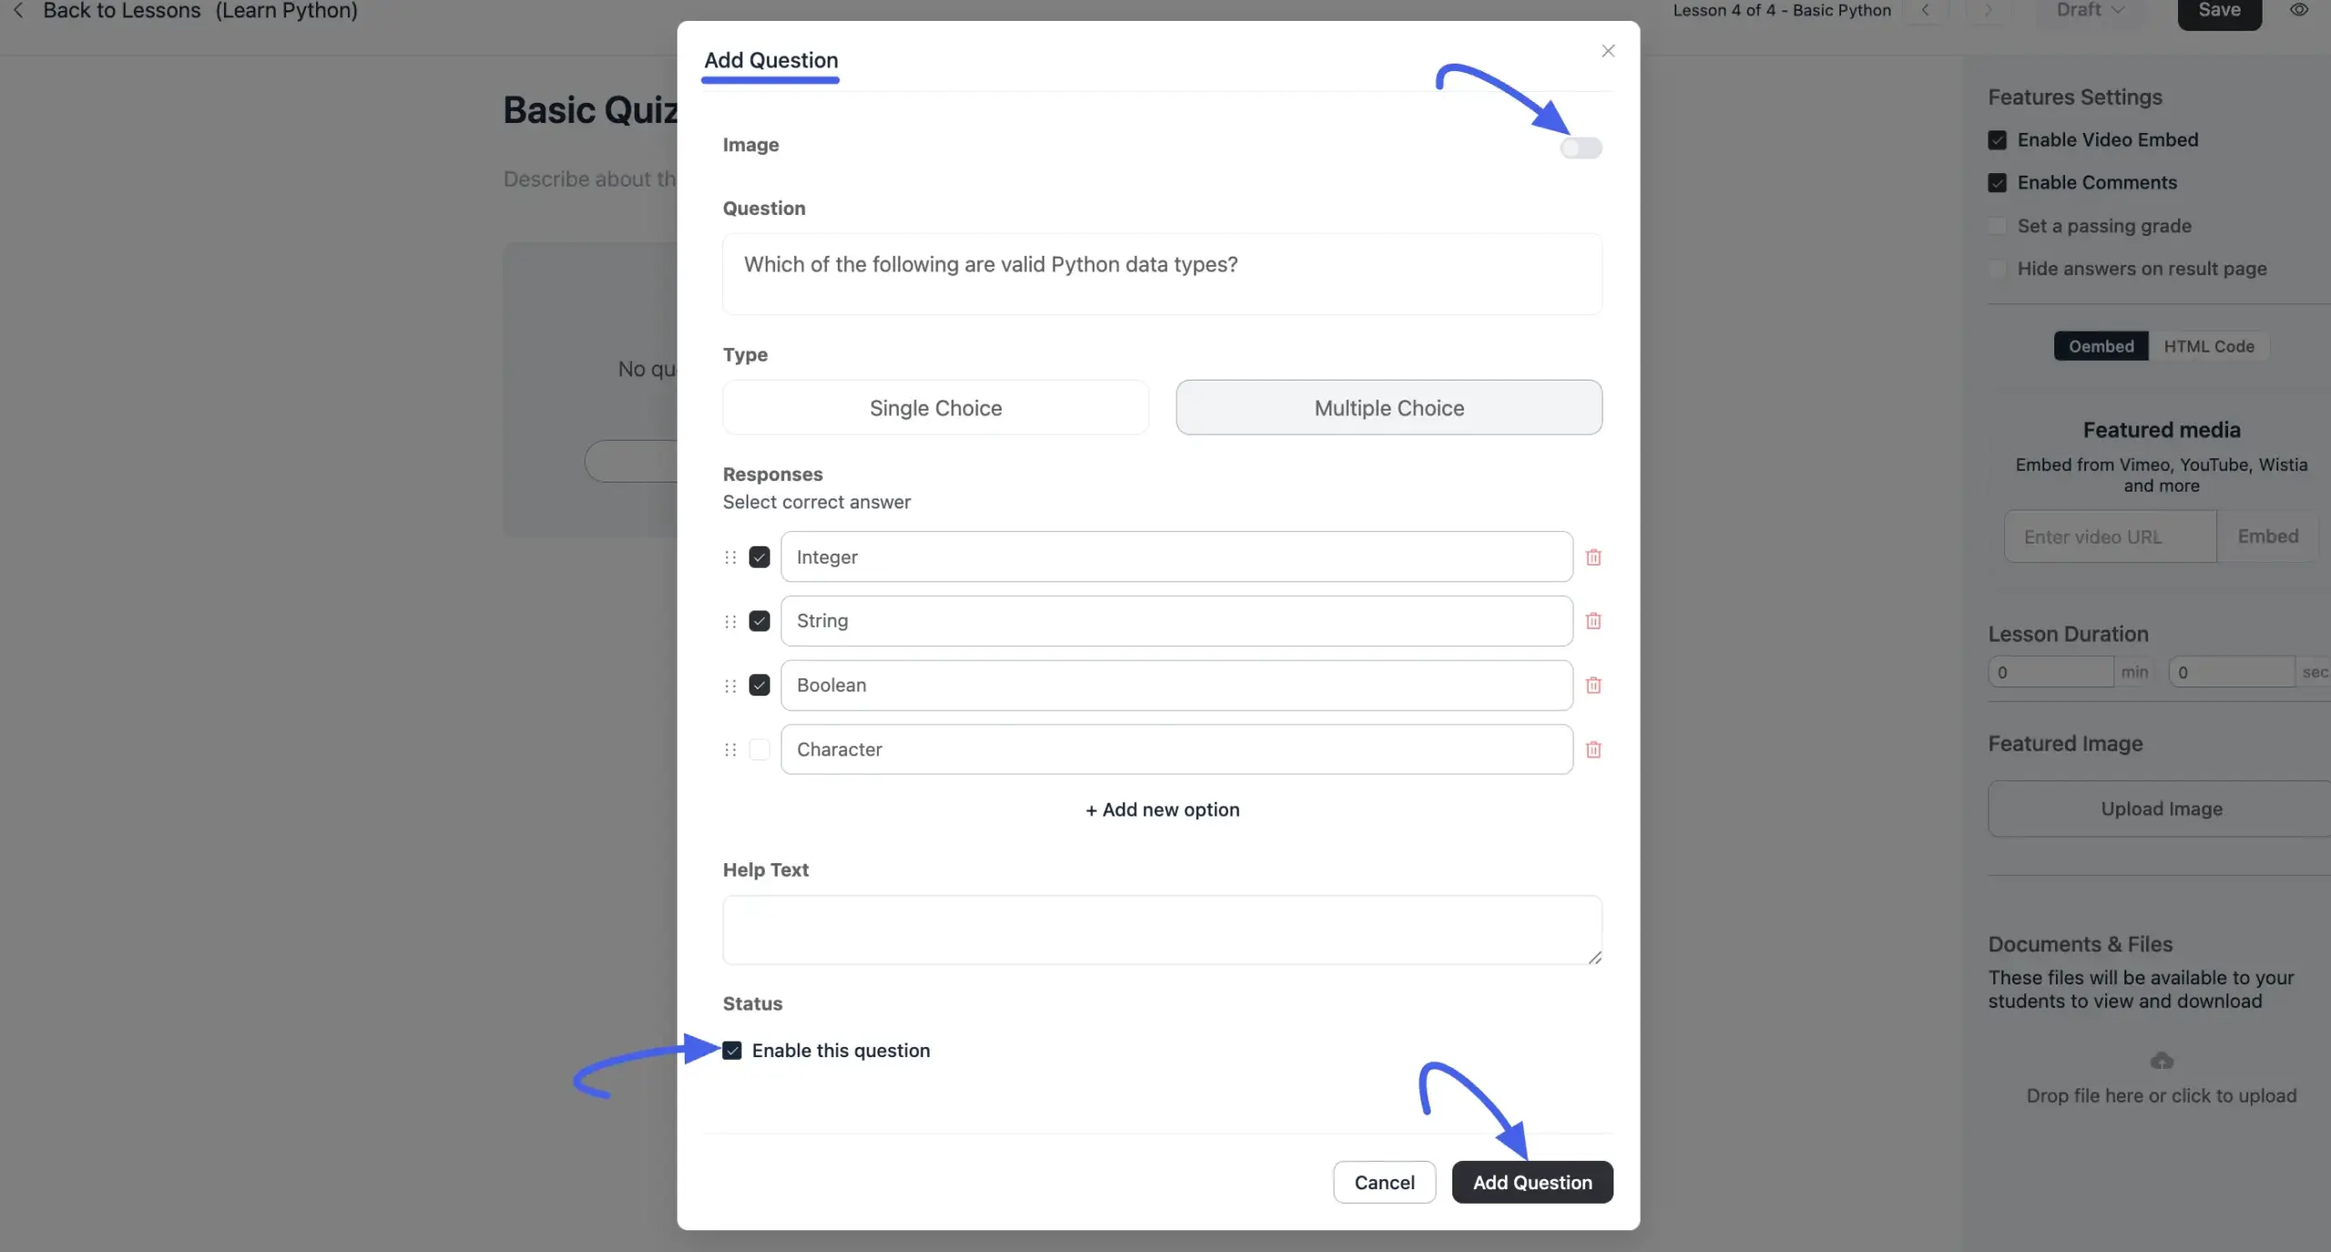
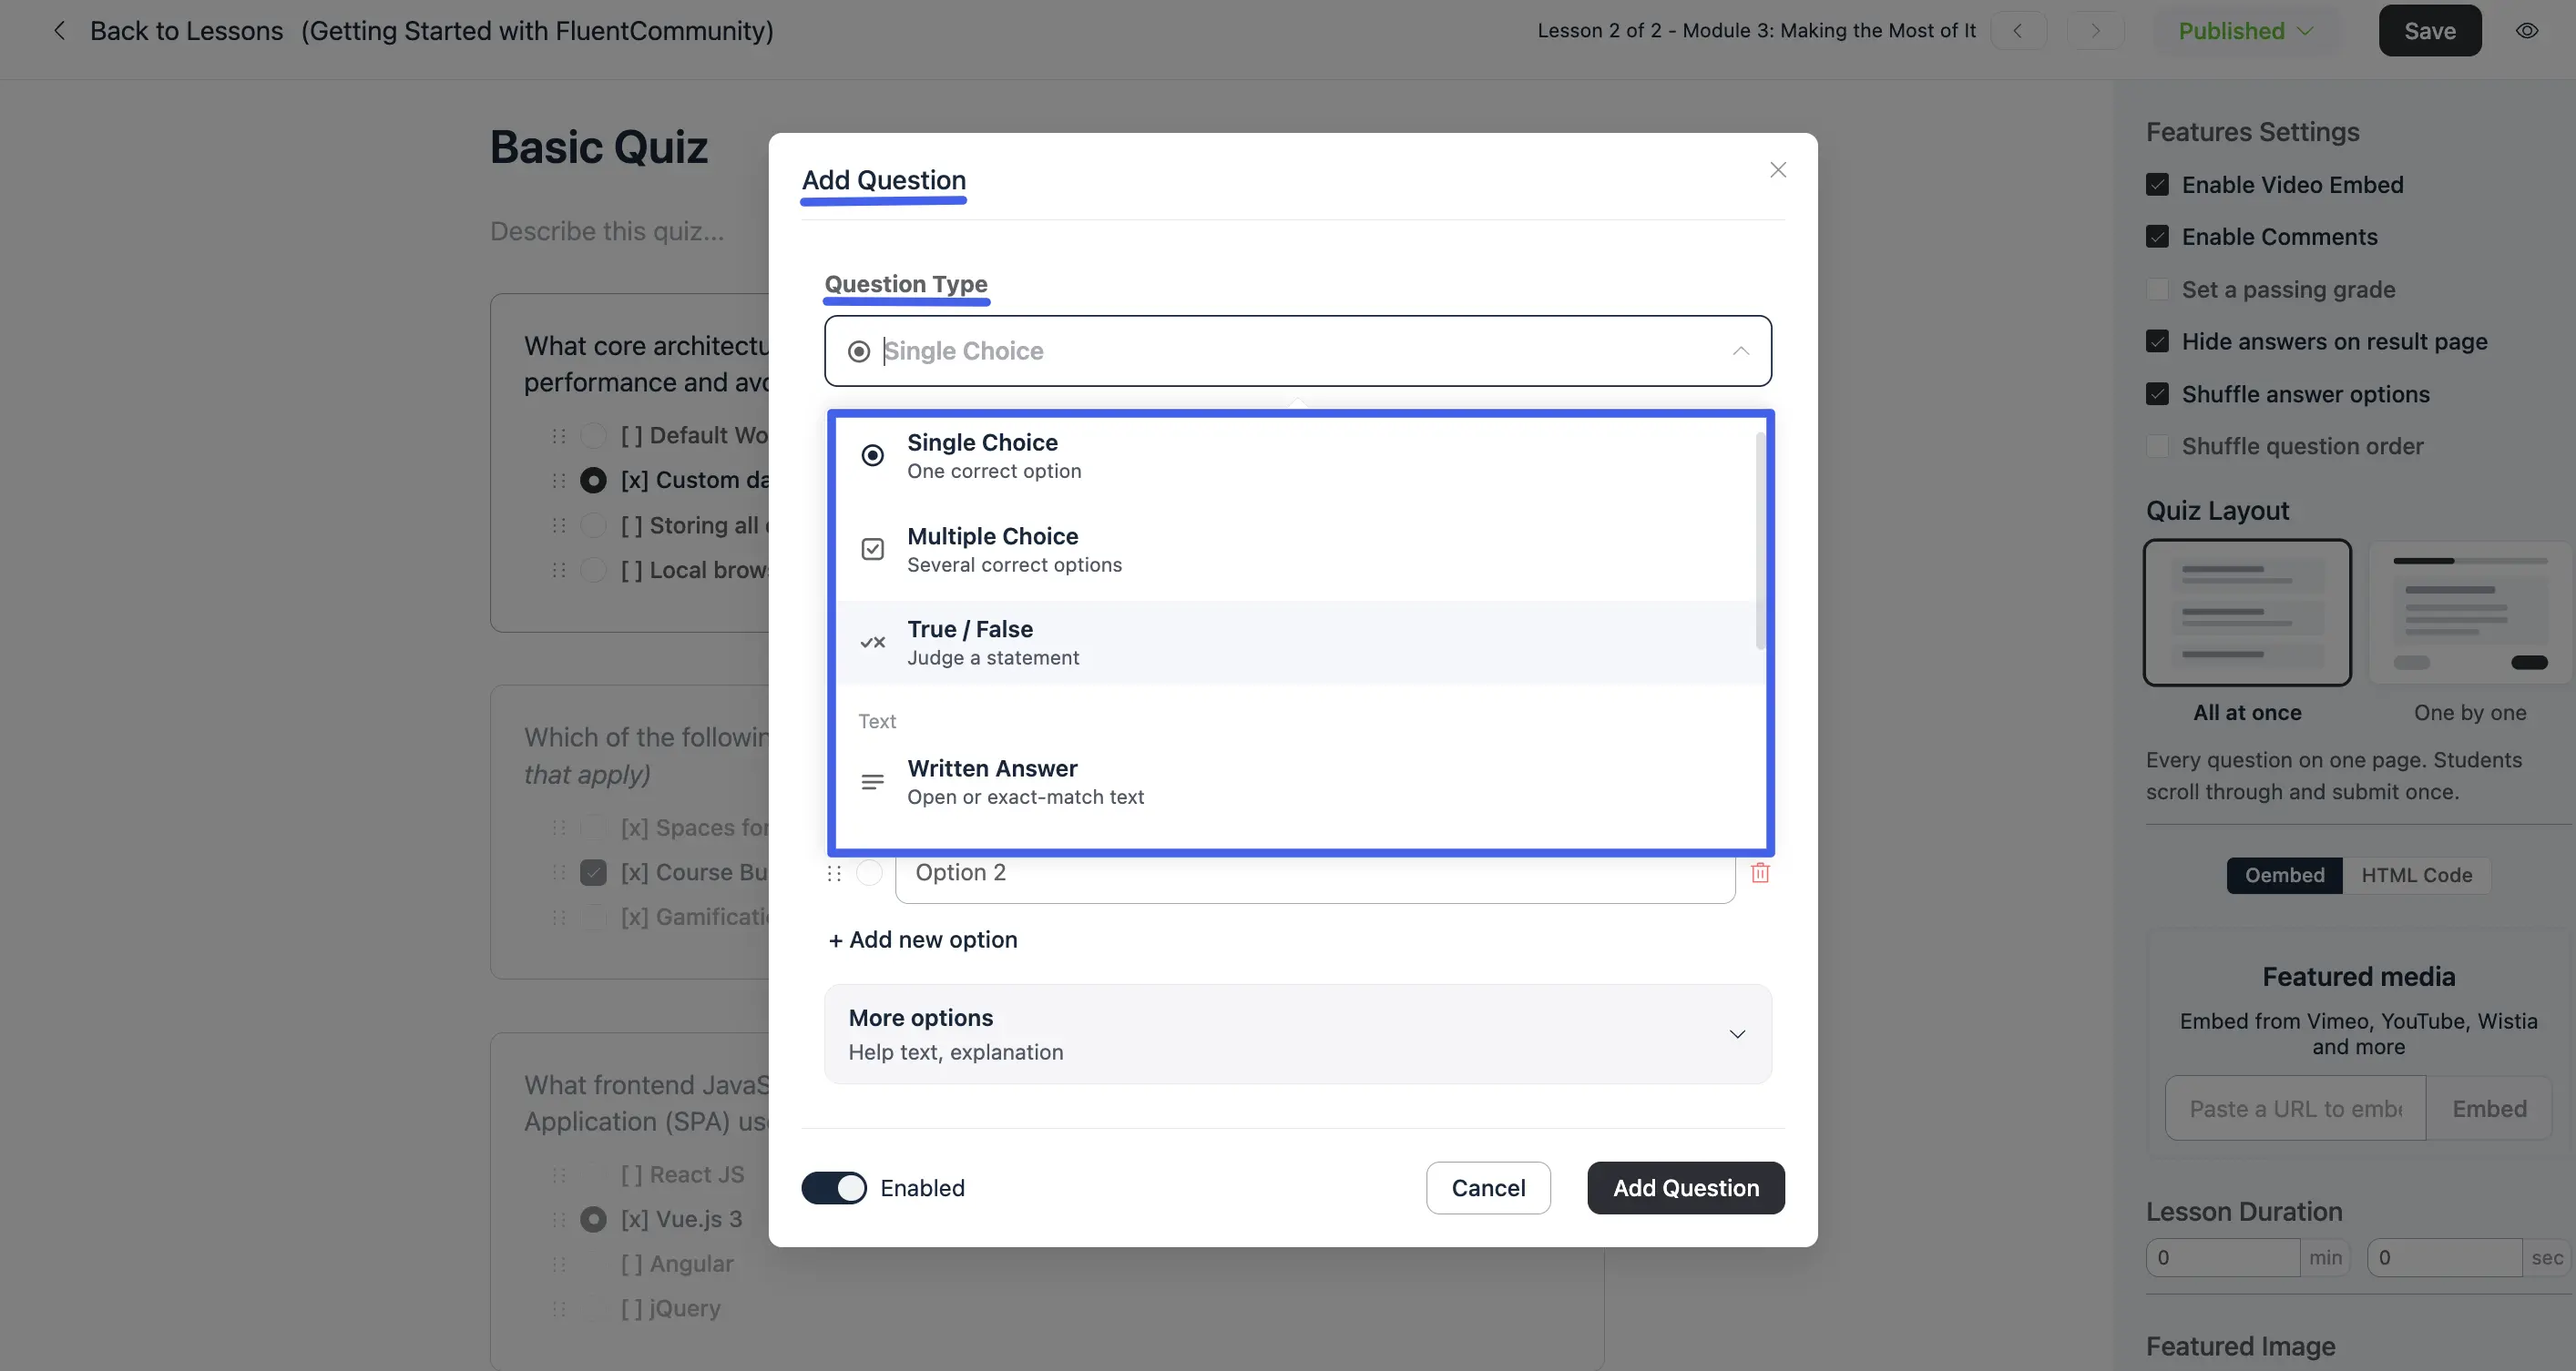
rewrite and image update this documnetation of Using the Quiz Module

diff --git a/docs/courses-&-learning-(pro)/using-the-quiz-module.md b/docs/courses-&-learning-(pro)/using-the-quiz-module.md
@@ -5,7 +5,7 @@ description: Create and manage quizzes in FluentCommunity to test your students'
 
 # Using the Quiz Module
 
-The Quiz Module in FluentCommunity lets you test your students' knowledge easily. You can add quizzes to any course to reinforce key concepts and check comprehension — making your courses more fun and more effective.
+The Quiz Module in FluentCommunity lets you test your students' knowledge easily. You can add quizzes to any course to reinforce key concepts and check comprehension, making your courses more fun and more effective.
 
 This guide shows you how to set up and add quizzes to your course.
 
@@ -36,32 +36,60 @@ The right side of the quiz editor holds your settings panel. This is your contro
 * **Enable Comments:** Allow students to leave comments or ask questions below the quiz.
 * **Set a passing grade:** Turn this on to require a specific score to pass. Enter the required percentage (for example, type `80` for 80%).
 * **Hide answers on result page:** Keep the correct answers hidden after a student finishes the quiz. This is useful if you let students retake the test.
+* **Quiz Layout:** A long quiz on a single page can feel like a wall of questions. Choose between **All at once**, the classic single page, and **One by one**, which shows one question per screen with a progress bar and **Previous** / **Next** buttons. This only changes how the quiz looks, grading works the same way either way, and the result page still lists every question so students can review the whole quiz.
+* **Shuffle answer options:** Shows each question's answer choices in a random order for every student.
+* **Shuffle question order:** Shows the questions themselves in a random order for every student. Turn on either shuffle setting and students stop being able to memorize where the right answer sits, your own editing order in the builder stays exactly as you left it.
 * **Featured media:** Paste a video URL (YouTube, Vimeo) into the **Embed** tab, or paste code into the **Custom HTML Code** tab to place a video at the top of the quiz.
 * **Lesson Duration:** Enter the expected time in minutes and seconds it will take a student to complete the quiz.
 * **Featured Image:** Click **Upload Image** to add a thumbnail graphic for your main course page.
 * **Documents & Files:** Drag and drop extra materials, like PDF study guides, for students to download before they start.
 
-![The quiz settings panel showing features, featured media, duration, and file options](/images/course-and-learning/using-the-quiz-module/configure-quiz-settings-3-scaled.webp)
+![The Features Settings panel with Shuffle answer options, Shuffle question order, and the Quiz Layout picker showing All at once and One by one](/images/course-and-learning/using-the-quiz-module/configure-quiz-settings-3-scaled.webp)
+
+![The Quiz Layout picker with One by one selected, describing it as one question per screen with a progress bar and Previous / Next buttons](/images/course-and-learning/using-the-quiz-module/quiz-layout-one-by-one-7b.webp)
 
 ## Build Your Questions
 
-The quiz editor is fast, clean, and fully keyboard-accessible — you can add and build entire quizzes without ever touching your mouse.
+The quiz editor is fast, clean, and fully keyboard-accessible, you can add and build entire quizzes without ever touching your mouse.
 
 1. Click the **+ Add Question** button at the bottom of the screen.
 
 ![The Add Question button at the bottom of the quiz editor](/images/course-and-learning/using-the-quiz-module/add-question-4-scaled.webp)
 
-2. Toggle **Image** on if you want to upload a picture at the top of the question.
-3. Choose your question **Type**: **Single Choice** (one right answer) or **Multiple Choice** (more than one right answer).
+2. Choose your question **Type** from the dropdown (see [Question Types](#question-types) below).
+3. Toggle **Image** on if you want to upload a picture at the top of the question.
 4. Type your question in the **Question** box.
-5. Add your choices under **Responses**. Click the small circle next to the correct answer.
-6. Click **+ Add new option** to include more choices.
-7. Type a hint in the **Help Text** box if you want to give students a clue.
+5. Fill in the responses under **Responses**, the fields shown depend on the Type you picked.
+
+![The Add Question form for a Multiple Choice question, with the Image toggle, More options section, and Enabled toggle highlighted](/images/course-and-learning/using-the-quiz-module/add-question-6-scaled.webp)
+
+6. Click **More options** to expand two optional fields:
+    * **Help Text** — a hint shown to students while they're answering.
+    * **Explanation (Pro)** — written with the same formatting tools as a post, so it can be more than a one-line note. A score tells a student how they did; an explanation tells them what to learn from it. See [Viewing Explanations](#viewing-explanations) below for how students see it.
+
+![The expanded More options panel showing the Help Text and Explanation fields](/images/course-and-learning/using-the-quiz-module/more-options-8.webp)
+
+7. Use the **Enabled** toggle to control whether the question is live right away.
 8. Click **Add Question** to save it to the list.
 
-![Building a multiple-choice question with responses and help text](/images/course-and-learning/using-the-quiz-module/add-question-5-scaled.webp)
-
 Repeat this process to add as many questions as your quiz needs.
+
+## Question Types
+
+FluentCommunity supports seven question types, so you can match the format to what you're actually testing.
+
+* **Single Choice:** One correct option. Students pick one answer from the list.
+* **Multiple Choice:** Several correct options. Students can select more than one; all correct options must be chosen to get credit.
+* **True / False:** Students judge a statement as true or false.
+* **Fill in the Blank:** Your question text includes one or more blanks. Students type the missing word or phrase directly into each blank.
+* **Ordering:** Give students a list of items in the wrong order. They drag and drop the items into what they believe is the correct sequence.
+* **Matching:** Give students two columns of items. They pair each item on the left with the item it matches on the right.
+* **Written Answer:** Open or exact-match text, students type a free-form response instead of picking from options. Choose how it's scored:
+    * **Open grading:** The response isn't auto-scored. You review each answer yourself and assign credit manually.
+    * **Exact match:** You provide the expected answer text, and FluentCommunity auto-grades the student's response against it.
+
+![The Question Type dropdown, listing Single Choice, Multiple Choice, True / False, and Written Answer with a short description of each](/images/course-and-learning/using-the-quiz-module/add-question-5-scaled.webp)
+
 
 ## Manage and Reorder Questions
 
@@ -86,3 +114,19 @@ Before students can see or take the quiz, make sure you **publish your quiz ques
 :::
 
 ![The student-facing quiz view showing results after submission](/images/course-and-learning/using-the-quiz-module/save-and-preview-10-scaled.webp)
+
+### One Question at a Time
+
+With **Quiz Layout** set to **One by one**, students see a single question per screen, with a progress bar counting up (e.g. "Question 3 of 6") and **Previous** / **Next** buttons to move between questions.
+
+![A quiz in the one-by-one layout showing question 3 of 6, a progress bar, and an ordering question with Previous and Next buttons](/images/course-and-learning/using-the-quiz-module/one-by-one-layout-11.webp)
+
+### Viewing Explanations
+
+After a student submits, a **View Explanation** link appears under every question that has one — whether the student got it right or wrong.
+
+![A quiz result page with an expanded explanation shown below a Fill in the Blank question](/images/course-and-learning/using-the-quiz-module/explanation-result-9.webp)
+
+::: info
+Students can't see a question's explanation before they've attempted the quiz. If **Hide answers on result page** is turned on, explanations stay hidden along with the answers.
+:::
